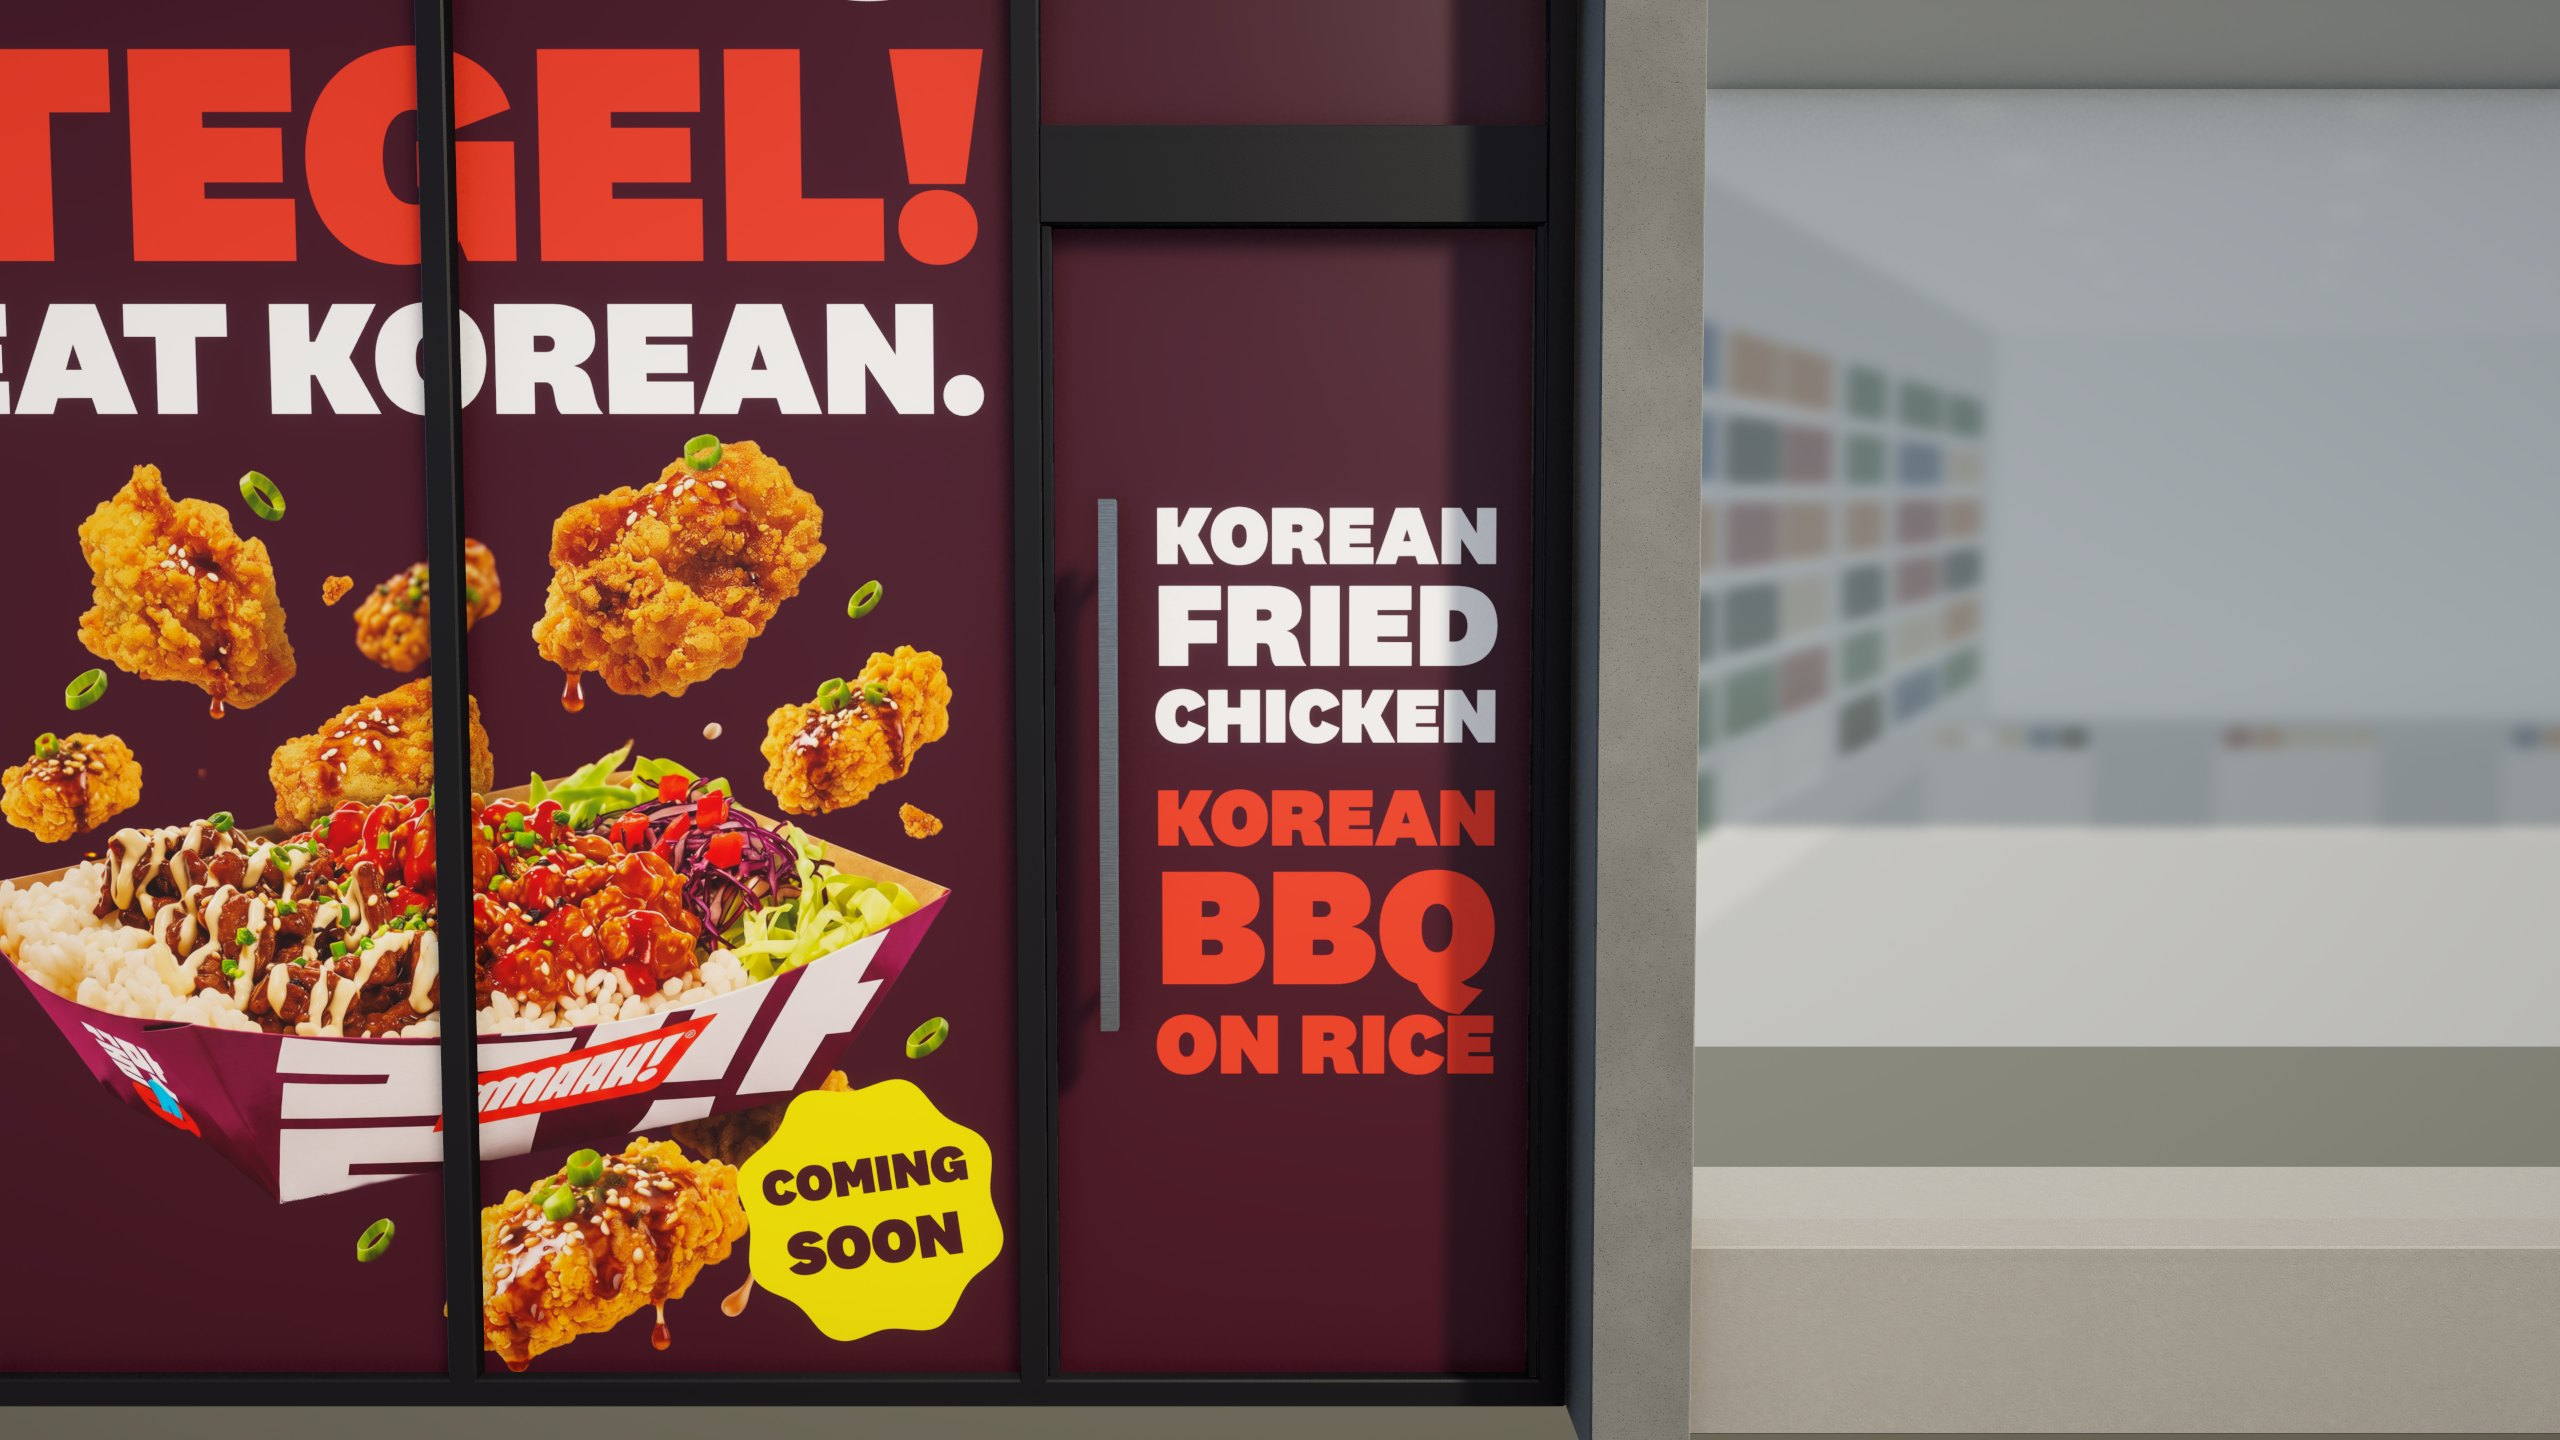
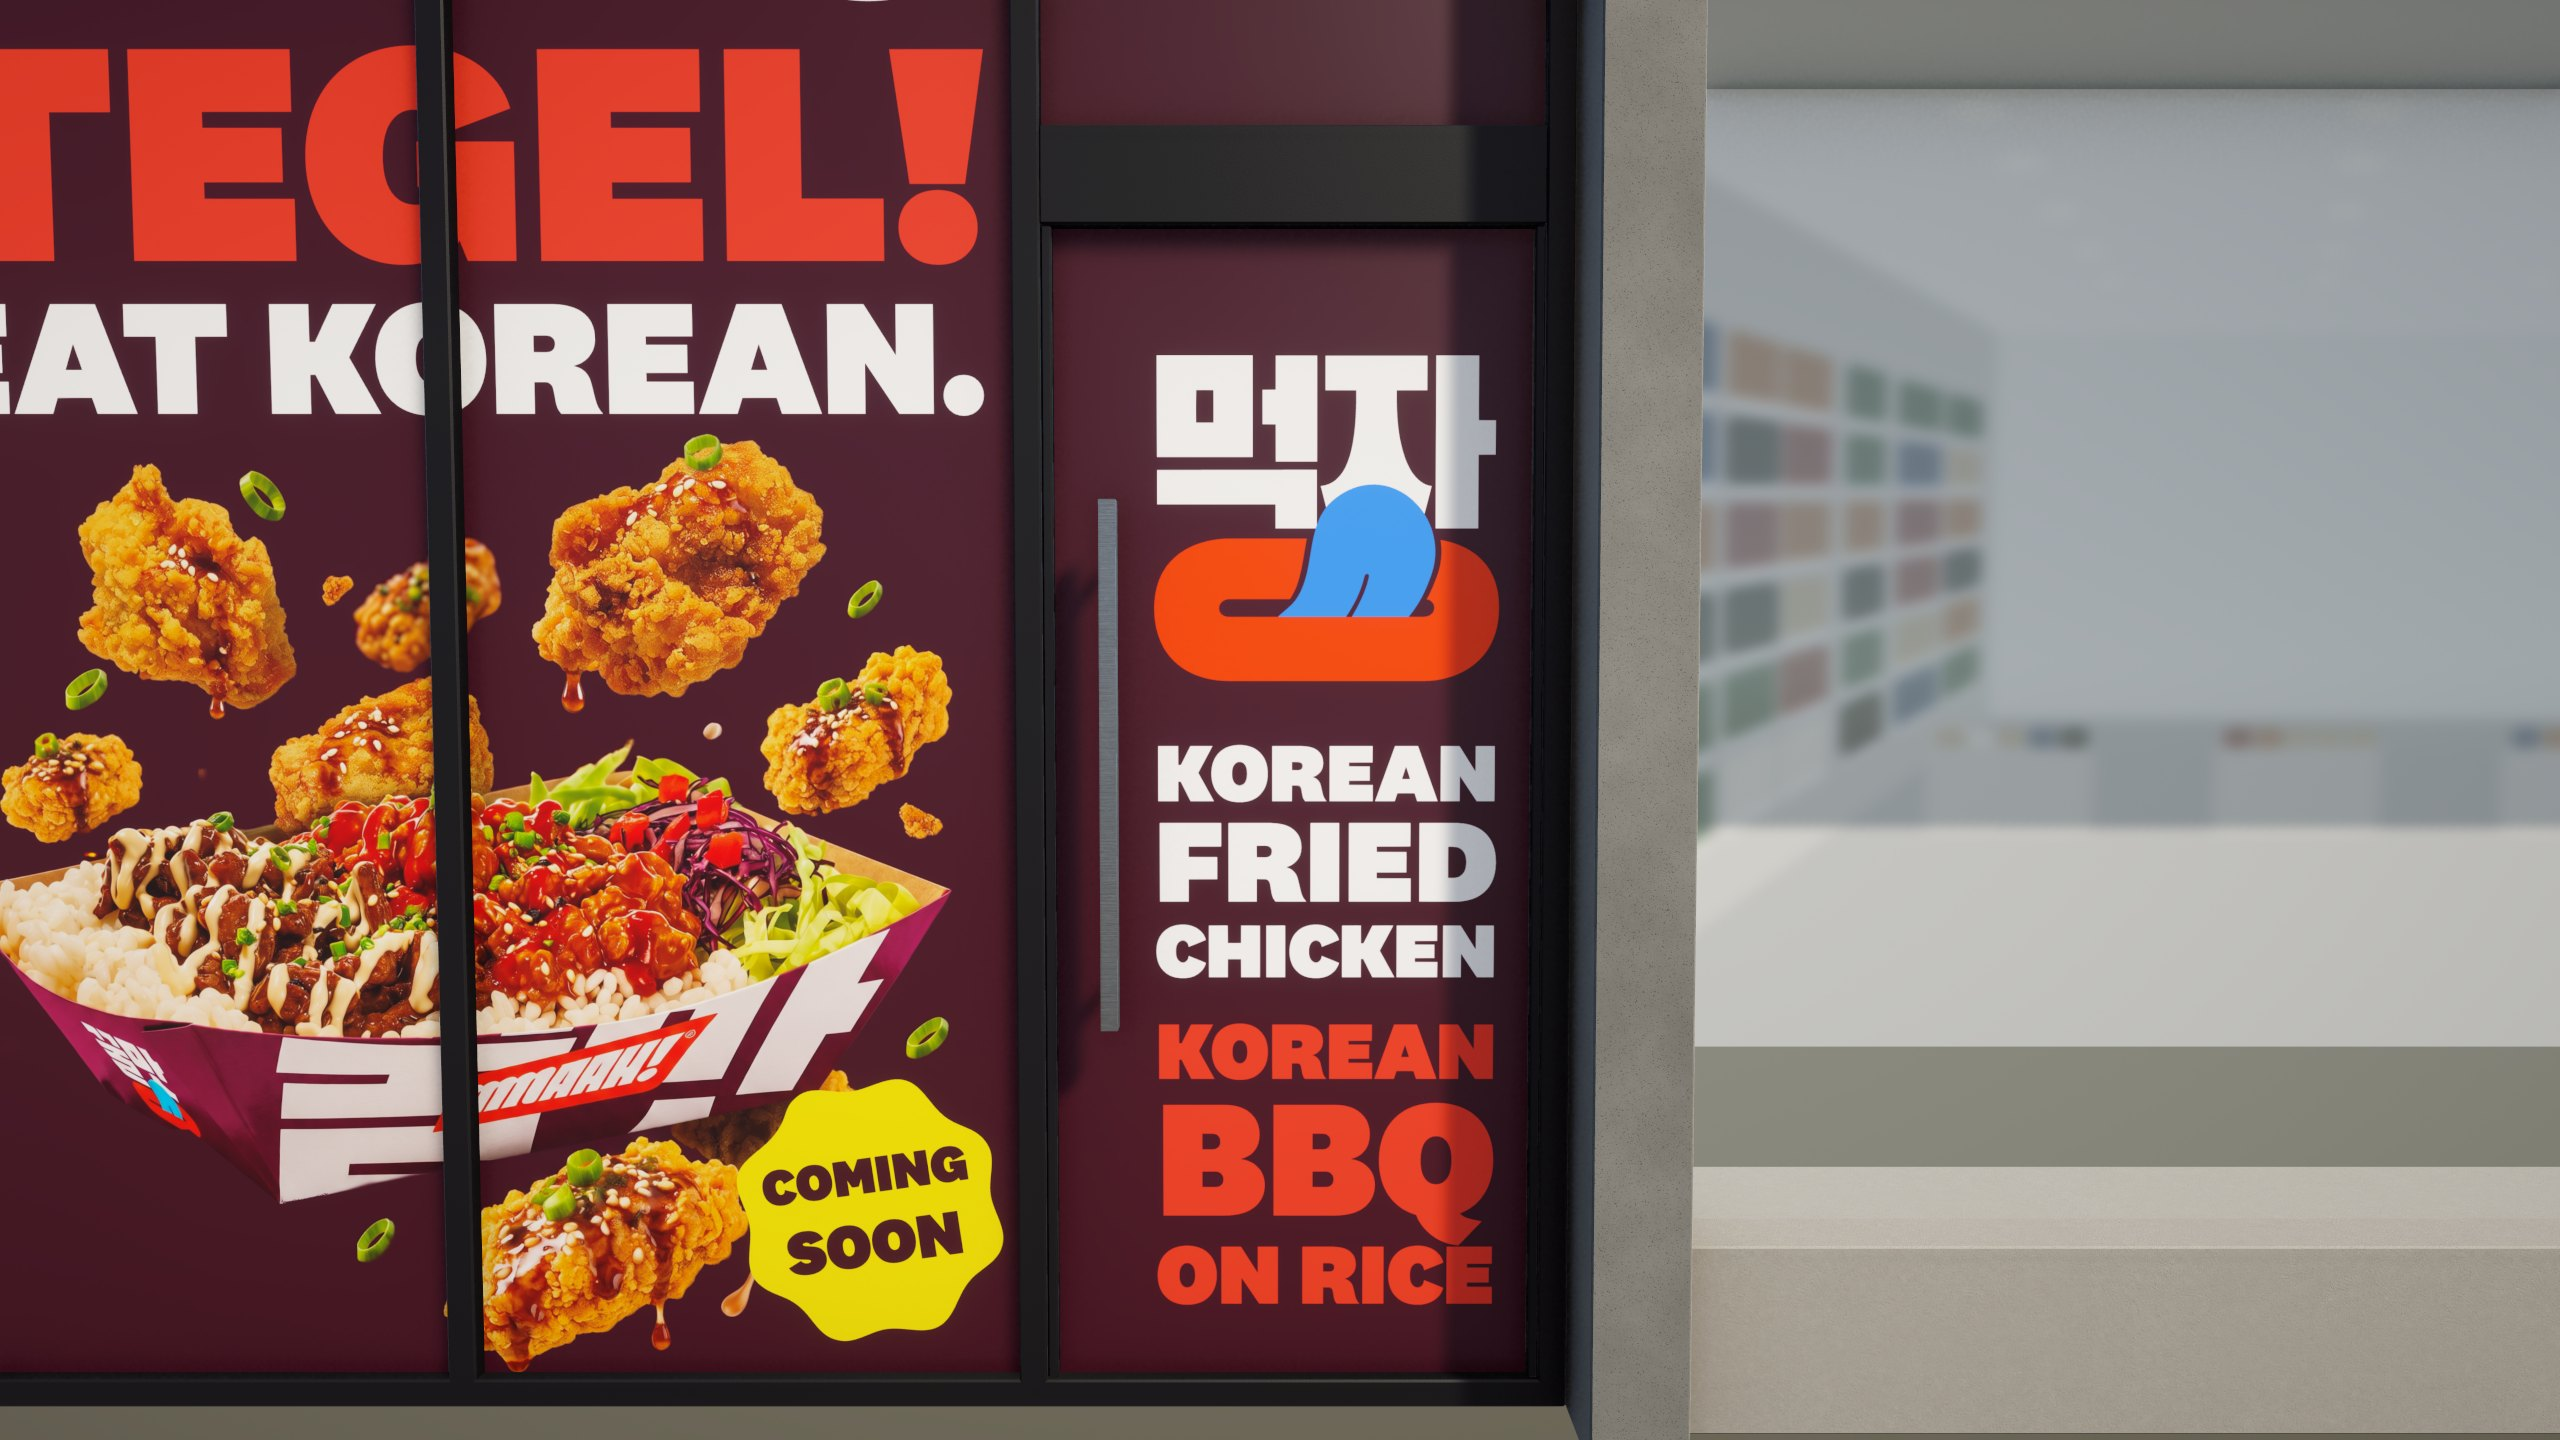
V7: Tür mit 먹자 Wappen über dem Blocktext

Changed region(s): [[0.4375, 0.2188, 0.5938, 0.9062]]

diff --git a/index.html b/index.html
@@ -61,7 +61,7 @@
 <script>
 const VARS = [
   ["v0", "Ohne Folie", "Die Front ohne Beklebung, innen Rohbau, zum Vergleich."],
-  ["v7", "7 · Hallo Tegel (Korrektur 26.11.)", "<b>Hallo Tegel mit den Änderungen vom 26.11.2026.</b> HALLO, TEGEL!, EAT KOREAN. als Blocktext gleich breit, Jobs ebenso, Mitarbeiterin größer und sauber freigestellt, QR neben dem Text, weißes Wallpaper raus. Food Visual aus V6 größer, nur auf den beiden mittleren Scheiben, Wings gegen die echten Mmaah Bites mit Soy Garlic Soße, Sesam und Schnittlauch getauscht. Gelber Sticker COMING SOON (ohne Datum) unten rechts auf der rechten Mittelscheibe, Tür: Blocktext KOREAN FRIED CHICKEN (weiß) und KOREAN BBQ ON RICE (rot)."],
+  ["v7", "7 · Hallo Tegel (Korrektur 26.11.)", "<b>Hallo Tegel mit den Änderungen vom 26.11.2026.</b> HALLO, TEGEL!, EAT KOREAN. als Blocktext gleich breit, Jobs ebenso, Mitarbeiterin größer und sauber freigestellt, QR neben dem Text, weißes Wallpaper raus. Food Visual aus V6 größer, nur auf den beiden mittleren Scheiben, Wings gegen die echten Mmaah Bites mit Soy Garlic Soße, Sesam und Schnittlauch getauscht. Gelber Sticker COMING SOON (ohne Datum) unten rechts auf der rechten Mittelscheibe, Tür: oben Wappen 먹자 mit Mund, darunter Blocktext KOREAN FRIED CHICKEN (weiß) und KOREAN BBQ ON RICE (rot)."],
   ["v6", "6 · Hallo Tegel (Korrektur 25.11.)", "<b>Hallo Tegel mit den Änderungen vom 25.11.2026.</b> Koreanisch 테겔 안녕! neben EAT KOREAN, neues Food Visual mit Soy Garlic Chicken Bites und dem Special BBQ Reis (ohne Kartoffelscheiben), Mitarbeiterin im Jobs Feld hält ein Chicken Bite, Tür EAT KOREAN SINCE 2012 mit Mund, Störer Coming Soon kleiner."],
   ["v5", "5 · Hallo Tegel", "<b>HALLO TEGEL! EAT KOREAN.</b> Großes Food Visual über Feld 2 und 3 (mit Higgsfield aus Schale, Bites Box und BBQ Reis erzeugt), Coming Soon Stempel AB JANUAR schräg auf der Tür, Logo darüber. Links bleibt das Jobs Feld mit QR Code und Mitarbeiterin."],
   ["v1", "1 · Heilbronn Stil", "<b>Wie Heilbronn.</b> Feld 1 Jobs (KOMM INS TEAM!, QR Code, Mitarbeiterin), Feld 2 und 3 Aubergine mit EAT KOREAN IN TEGEL über beide Felder und zwei Schalen, Tür Logo, Hand mit Chicken Bite und Mund, über der Tür AB JANUAR."],
